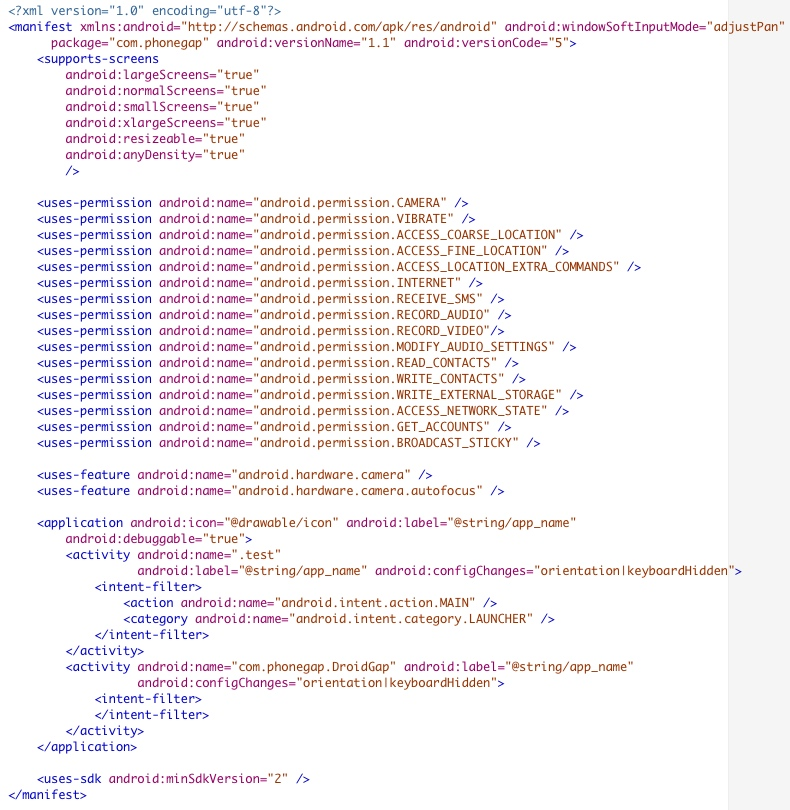
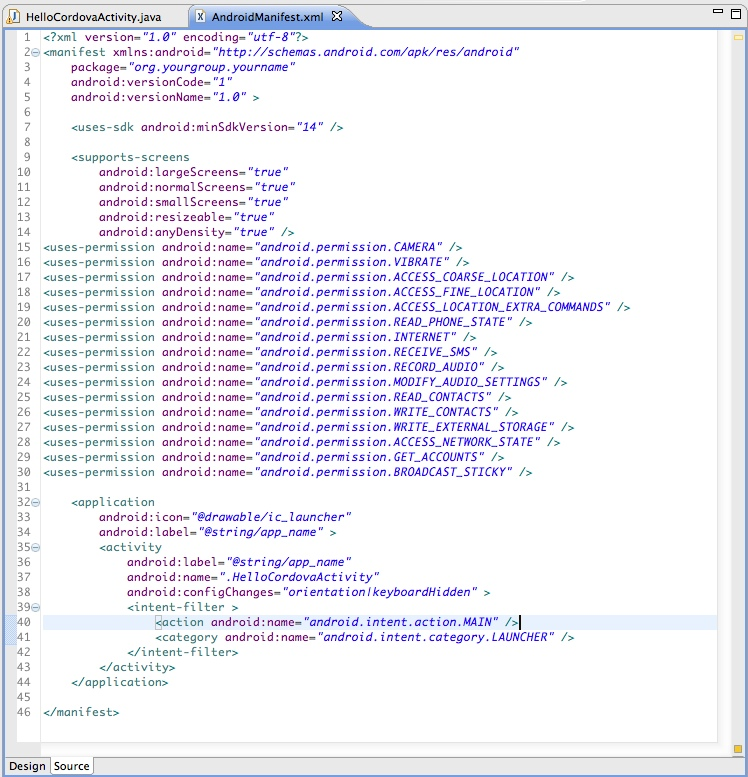
Updated Android Getting Started guide for 1.6.0.

Changed region(s): [[0.0, 0.0, 1.0, 1.0]]

diff --git a/docs/en/edge/guide/getting-started/android/index.md b/docs/en/edge/guide/getting-started/android/index.md
@@ -3,51 +3,55 @@ Getting Started with Android
 
 This guide describes how to set up your development environment for Cordova and run a sample application.  Note that Cordova used to be called PhoneGap, so some of the sites still use the old PhoneGap name.
 
-Video Tutorials:
-----------------
-
-- [Cordova and Android Quick Start Video Using Ecliplse](http://www.youtube.com/v/MzcIcyBYJMA?autoplay=1)
-
 
 1. Requirements
 ---------------
 
 - Eclipse 3.4+
 
-There is also a [Terminal](http://wiki.phonegap.com/w/page/30864168/phonegap-android-terminal-quickstart) of this tutorial that doesn't use Eclipse.
-
 
 2. Install SDK + Cordova
-----------------------------
+------------------------
 
 - Download and install [Eclipse Classic](http://www.eclipse.org/downloads/)
 - Download and install [Android SDK](http://developer.android.com/sdk/index.html)
 - Download and install [ADT Plugin](http://developer.android.com/sdk/eclipse-adt.html#installing)
-- Donwload the latest copy of [Cordova](http://phonegap.com/download) and extract its contents. We will be working with the Android directory.
+- Download the latest copy of [Cordova](http://phonegap.com/download) and extract its contents. We will be working with the Android directory.
 
  3. Setup New Project
------------------------
+---------------------
 
-- Launch Eclipse, then under the menu select **New &gt; Android Project**
+- Launch Eclipse, and select menu item **New &gt; Android Project**.  Fill out the three panels of the **New Android Project** wizard shown below.
 
     ![](img/guide/getting-started/android/AndroidFlow.png)
-- In the root directory of the project, create two new directories:
+    
+- In the root directory of your project, create two new directories:
  	- **/libs**
  	- **assets/www**
 - Copy **cordova-1.6.0.js** from your Cordova download earlier to **assets/www**
 - Copy **cordova-1.6.0.jar** from your Cordova download earlier to **/libs**
 - Copy **xml** folder from your Cordova download earlier to **/res**
-- Make a few adjustments too the project's main Java file found in the **src** folder in Eclipse: (view image below)
+
+- Verify that **cordova-1.6.0.jar** is listed in the Build Path for your project. Right click on the /libs folder and go to **Build Paths/ &gt; Configure Build Path...**. Then, in the Libraries tab, add **cordova-1.6.0.jar** to the project. If Eclipse is being temperamental, you might need to refresh (F5) the project once again.
+
+    ![](img/guide/getting-started/android/buildPath.jpg)
+
+- Edit your project's main Java file found in the **src** folder in Eclipse:
+	- Add **import org.apache.cordova.*;**
 	- Change the class's extend from **Activity** to **DroidGap**
 	- Replace the **setContentView()** line with **super.loadUrl("file:///android_asset/www/index.html");**	
-	- Add **import org.apache.cordova.*;**
 
 	![](img/guide/getting-started/android/javaSrc.jpg)
-- You might experience an error here, where Eclipse can't find cordova-1.6.0.jar. In this case, right click on the /libs folder and go to Build Paths/ &gt; Configure Build Paths. Then, in the Libraries tab, add cordova-1.6.0.jar to the Project. If Eclipse is being temperamental, you might need to refresh (F5) the project once again.
-- Right click on AndroidManifest.xml and select **Open With &gt; Text Editor**
-- Paste the following permissions under versionName: (view image below)
+	
+- Right click on AndroidManifest.xml and select **Open With &gt; XML Editor**
+- Paste the following permissions between the **&lt;uses-sdk.../&gt;** and **&lt;application.../&gt;** tags.
 
-        <supports-screens android:largeScreens="true" android:normalScreens="true" android:smallScreens="true" android:resizeable="true" android:anyDensity="true" />
+        <supports-screens 
+            android:largeScreens="true" 
+            android:normalScreens="true" 
+            android:smallScreens="true" 
+            android:resizeable="true" 
+            android:anyDensity="true" />
         <uses-permission android:name="android.permission.CAMERA" />
         <uses-permission android:name="android.permission.VIBRATE" />
         <uses-permission android:name="android.permission.ACCESS_COARSE_LOCATION" />
@@ -61,17 +65,22 @@ There is also a [Terminal](http://wiki.phonegap.com/w/page/30864168/phonegap-and
         <uses-permission android:name="android.permission.READ_CONTACTS" />
         <uses-permission android:name="android.permission.WRITE_CONTACTS" />
         <uses-permission android:name="android.permission.WRITE_EXTERNAL_STORAGE" />
-        <uses-permission android:name="android.permission.ACCESS_NETWORK_STATE" /> <uses-permission android:name="android.permission.GET_ACCOUNTS" />
+        <uses-permission android:name="android.permission.ACCESS_NETWORK_STATE" /> 
+        <uses-permission android:name="android.permission.GET_ACCOUNTS" />
         <uses-permission android:name="android.permission.BROADCAST_STICKY" />
 
-- Add `android:configChanges="orientation|keyboardHidden"` to the activity tag in AndroidManifest. (view image below)
+- Support orientation changes by pasting the folowing inside the **&lt;activity&gt;** tag.
 
-	![](img/guide/getting-started/android/manifest.jpg)
+        android:configChanges="orientation|keyboardHidden"
+
+- Your AndroidManifest.xml file should look like
+
+    ![](img/guide/getting-started/android/manifest.jpg)
 
 4. Hello World
 --------------    
 
-Now create and open a new file named **index.html** in the **assets/www** directory. Paste the following code:
+- Create and open a new file named **index.html** in the **assets/www** directory. Paste the following code:
 
 	    <!DOCTYPE HTML>
         <html>
@@ -83,26 +92,21 @@ Now create and open a new file named **index.html** in the **assets/www** direct
         <h1>Hello World</h1>
         </body>
         </html>
-	
-    *cordova-1.6.0.js might need to be replaced with latest cordova-<VERSION NUMBER>.js
 
 
 5A. Deploy to Simulator
 -----------------------
 
-- Right click the project and go to **Run As** and click **Android Application**
+- Right click the project and go to **Run As &gt; Android Application**
 - Eclipse will ask you to select an appropriate AVD. If there isn't one, then you'll need to create it.
 
 
 5B. Deploy to Device
 --------------------
 
-- Make sure USB debugging is enabled on your device and plug it into your system. (Settings &gt; Applications &gt; Development)
-- Right click the project and go to **Run As** and click **Android Application**
+- Make sure USB debugging is enabled on your device and plug it into your system. (**Settings &gt; Applications &gt; Development**)
+- Right click the project and go to **Run As &gt; Android Application**
 
 
 Done!
 -----
-
-You can also checkout more detailed version of this guide [here](http://wiki.phonegap.com/w/page/30862722/phonegap-android-eclipse-quickstart).
-
